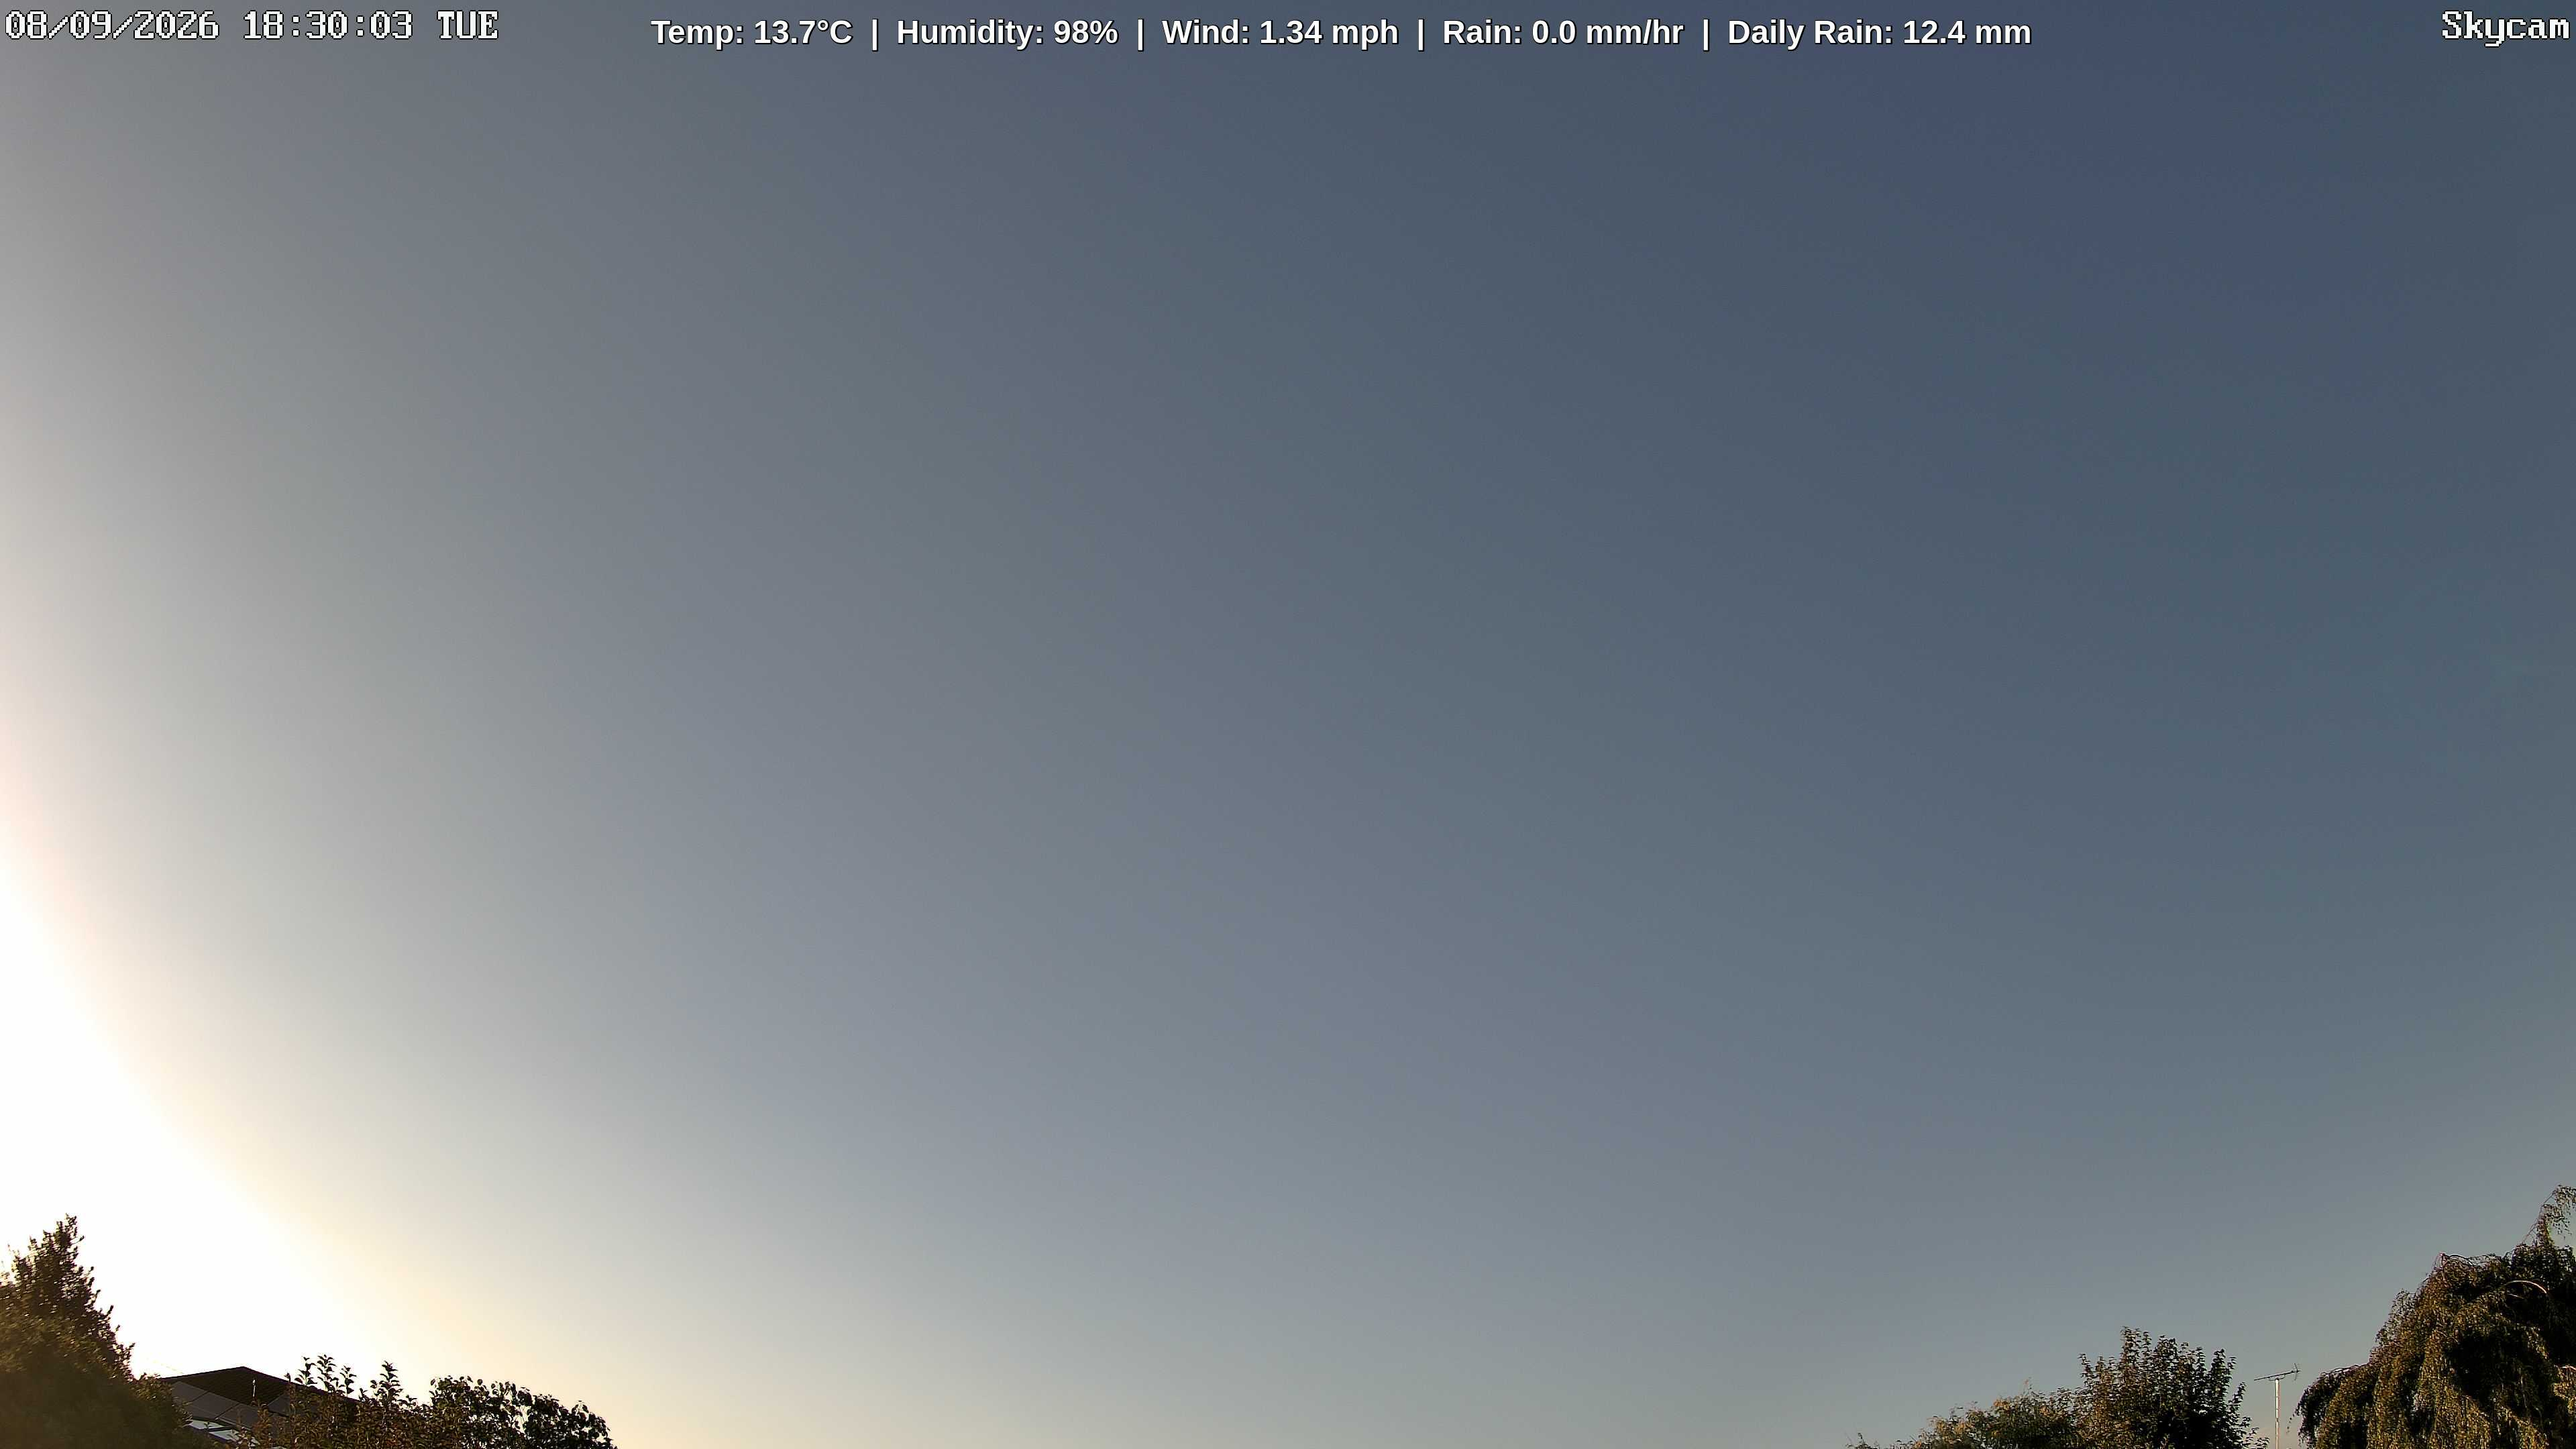
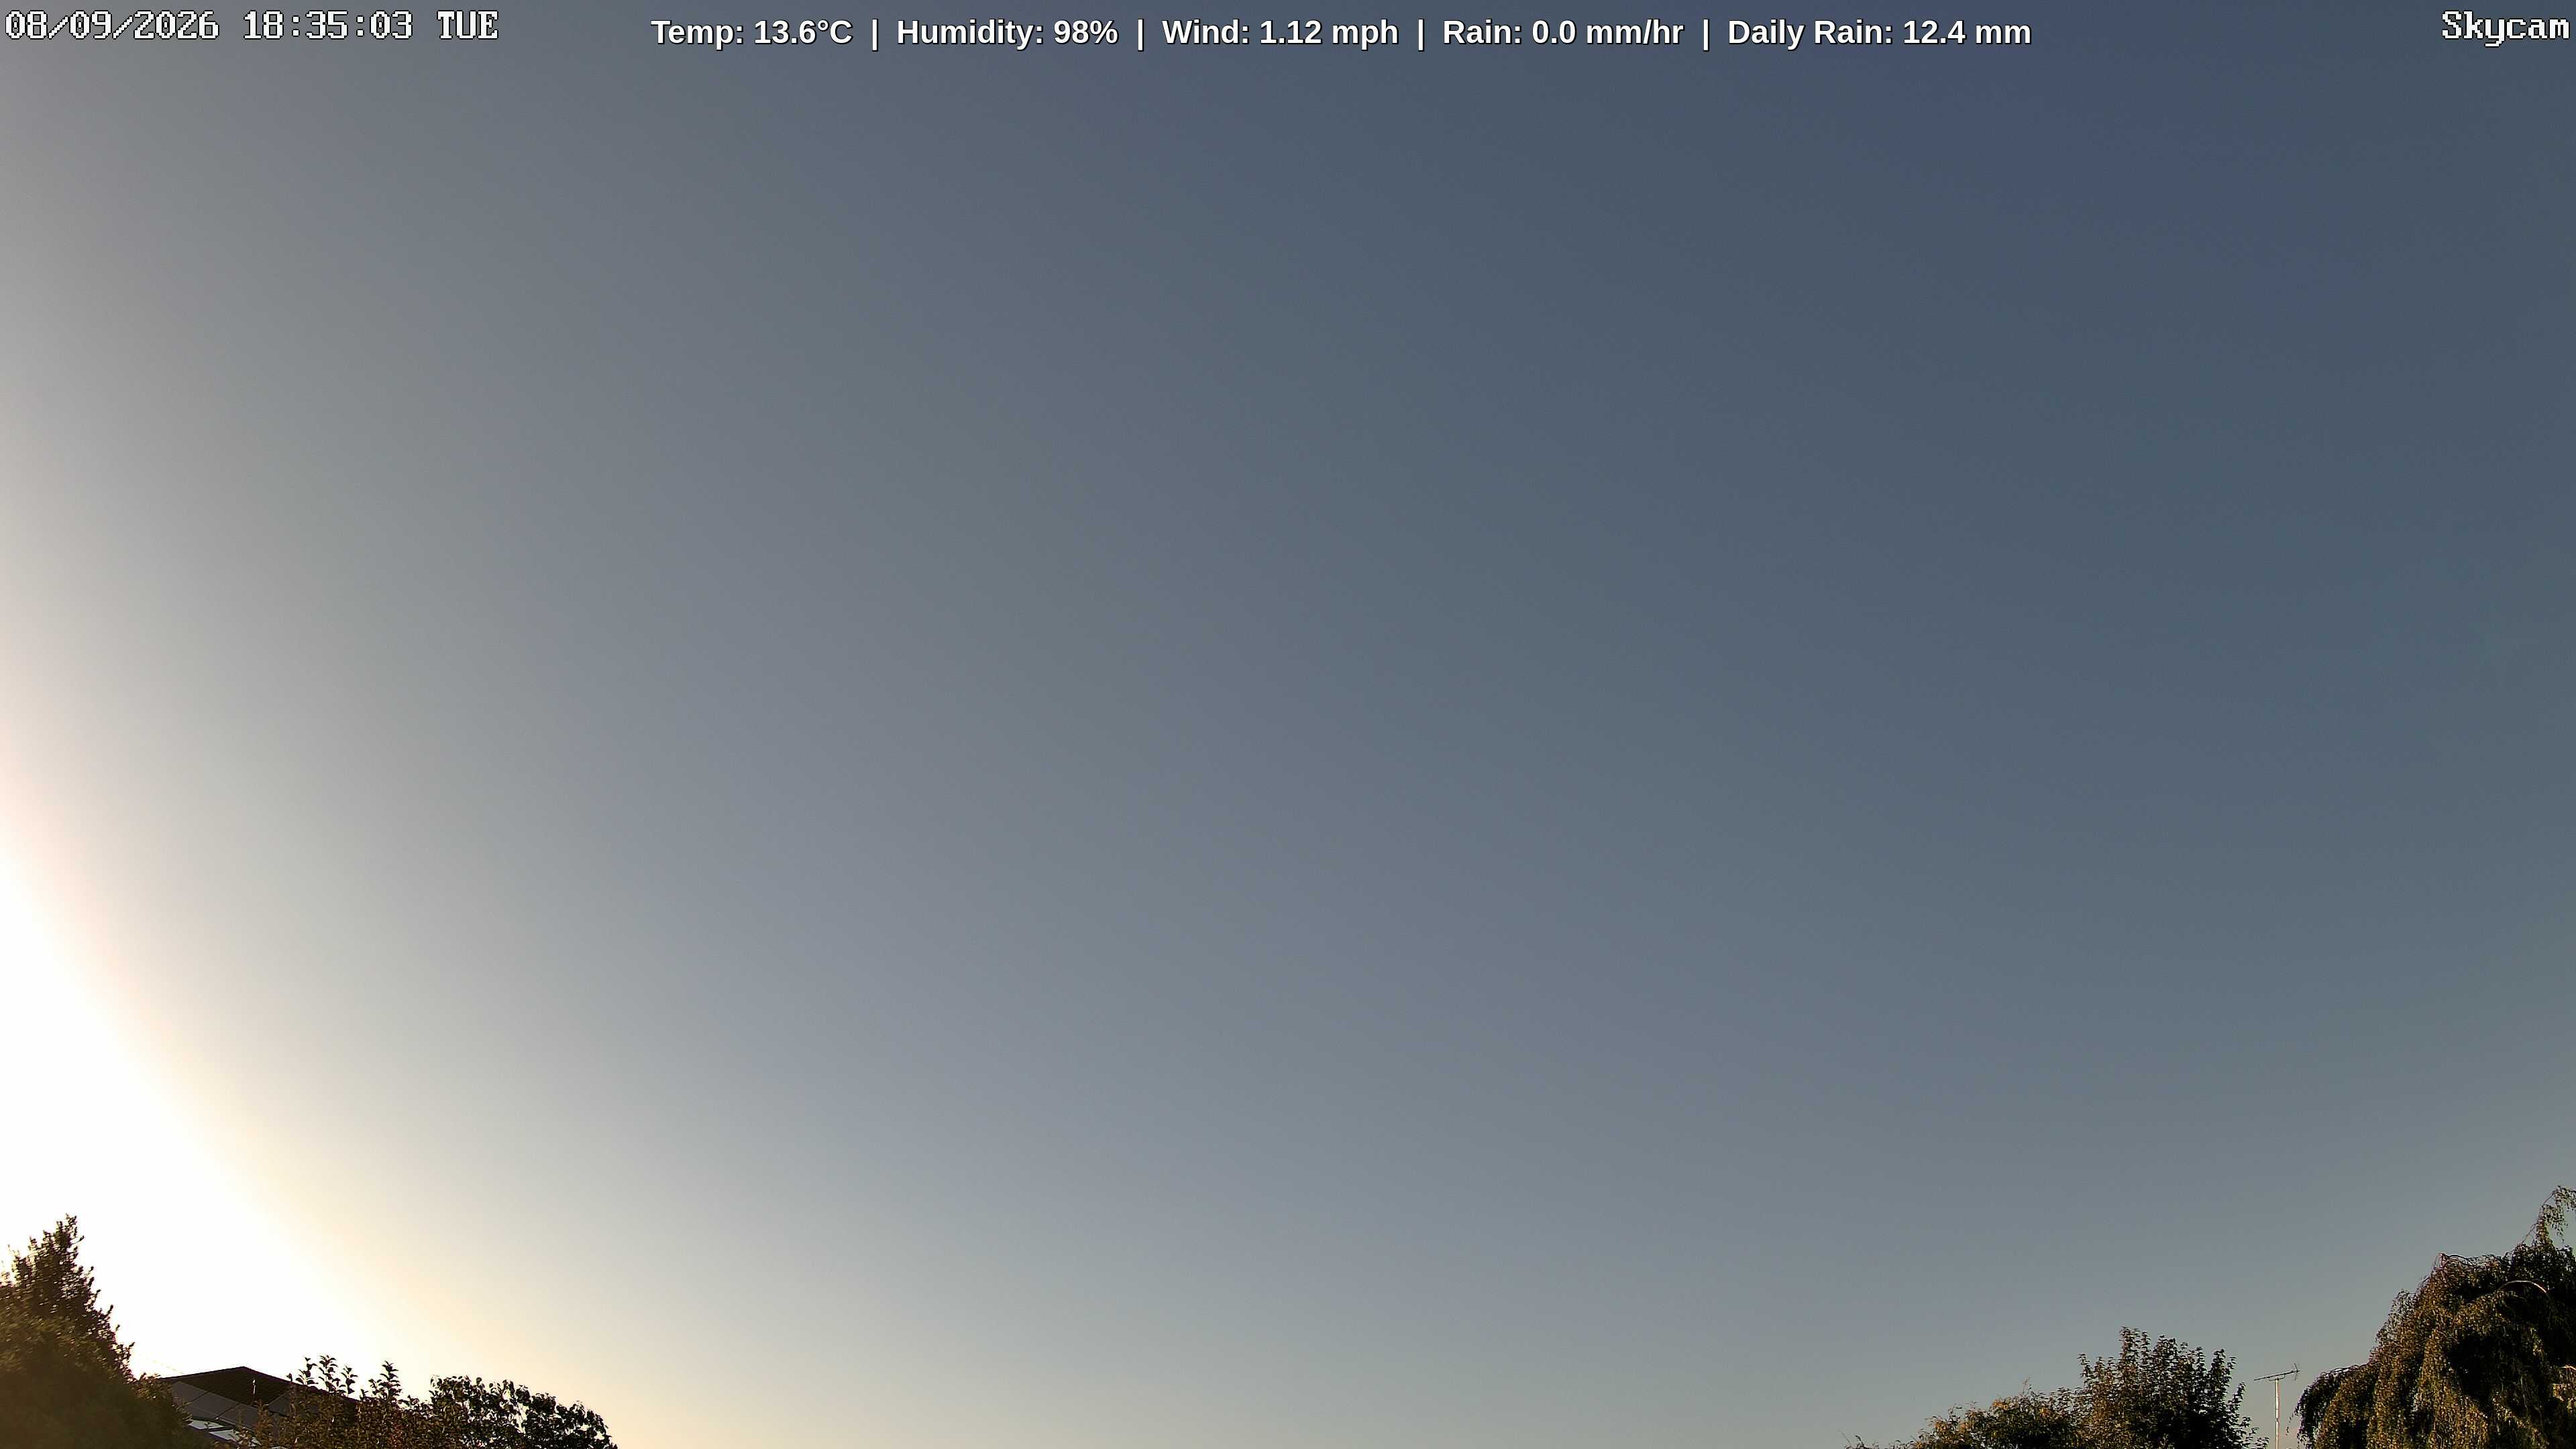
Update weather cam image with synchronized dual-layer weather metrics

diff --git a/index.html b/index.html
@@ -32,7 +32,7 @@
 </head>
 <body>
     <img id="weathercam" alt="Live Weather Snapshot">
-    <div class="banner">Temp: 13.7°C  |  Humidity: 98%  |  Wind: 1.34 mph  |  Rain: 0.0 mm/hr  |  Daily Rain: 12.4 mm</div>
+    <div class="banner">Temp: 13.6°C  |  Humidity: 98%  |  Wind: 1.12 mph  |  Rain: 0.0 mm/hr  |  Daily Rain: 12.4 mm</div>
 
     <script>
         // Shatter mobile cache engines by appending a live unique runtime timestamp 
